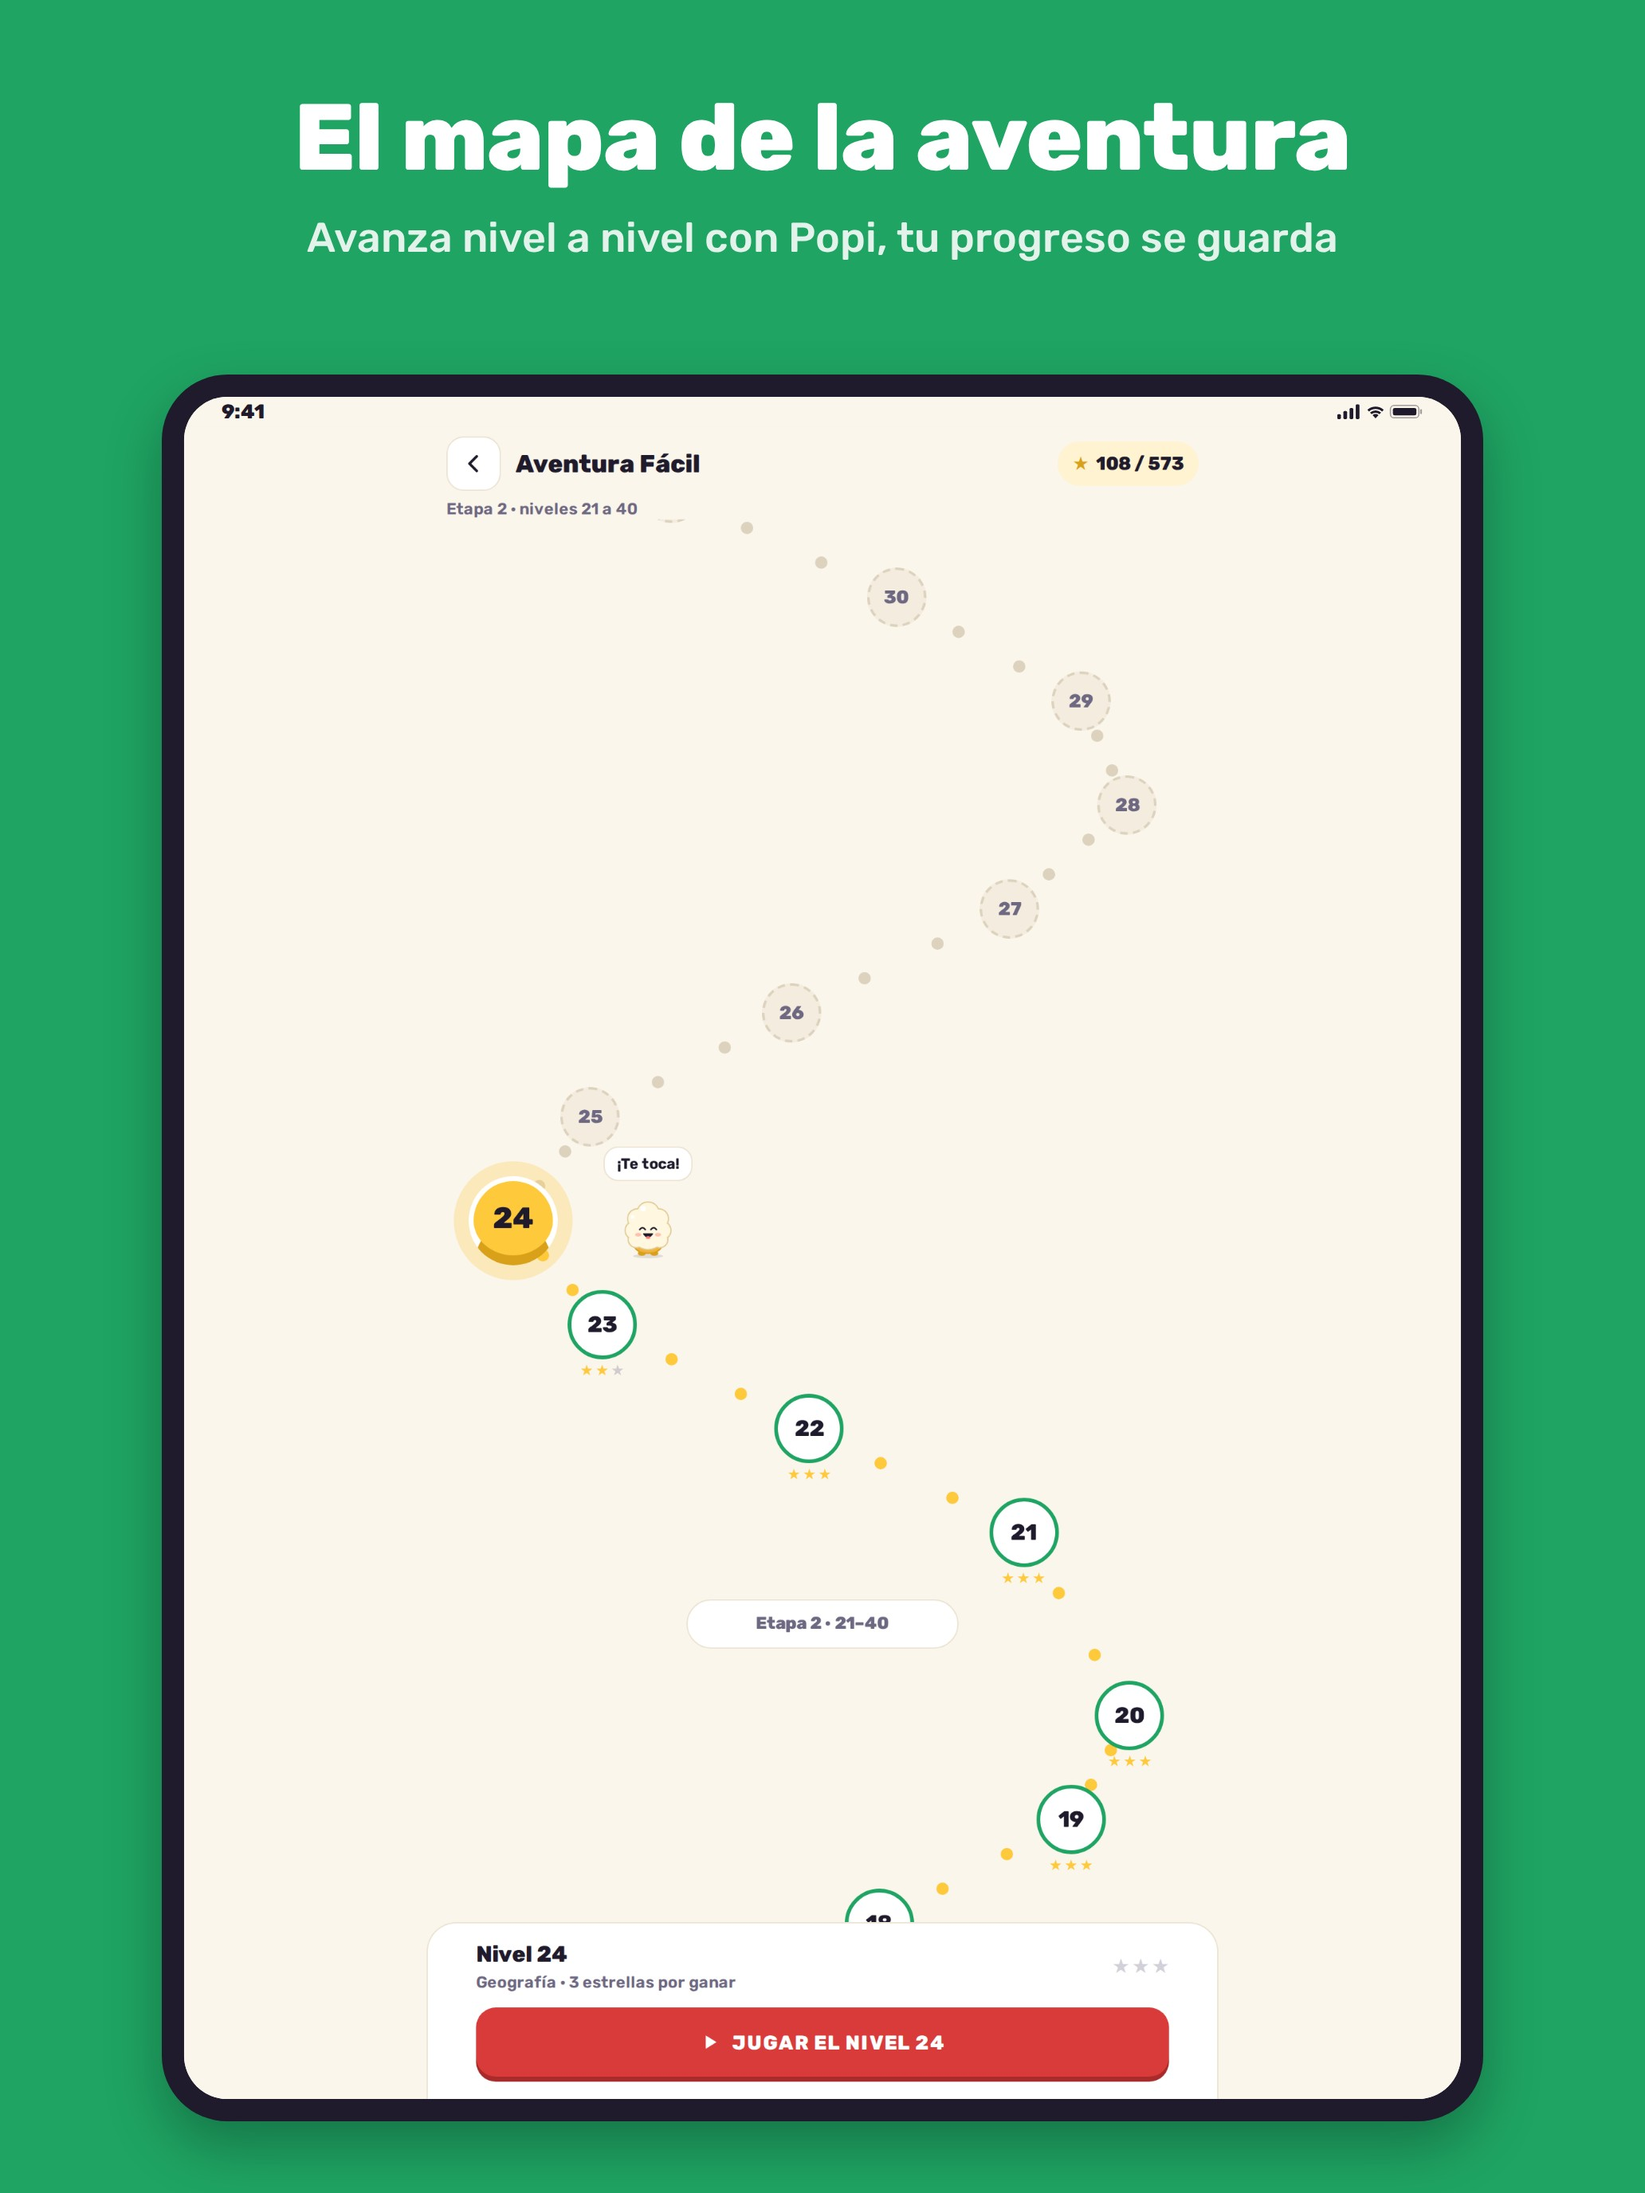
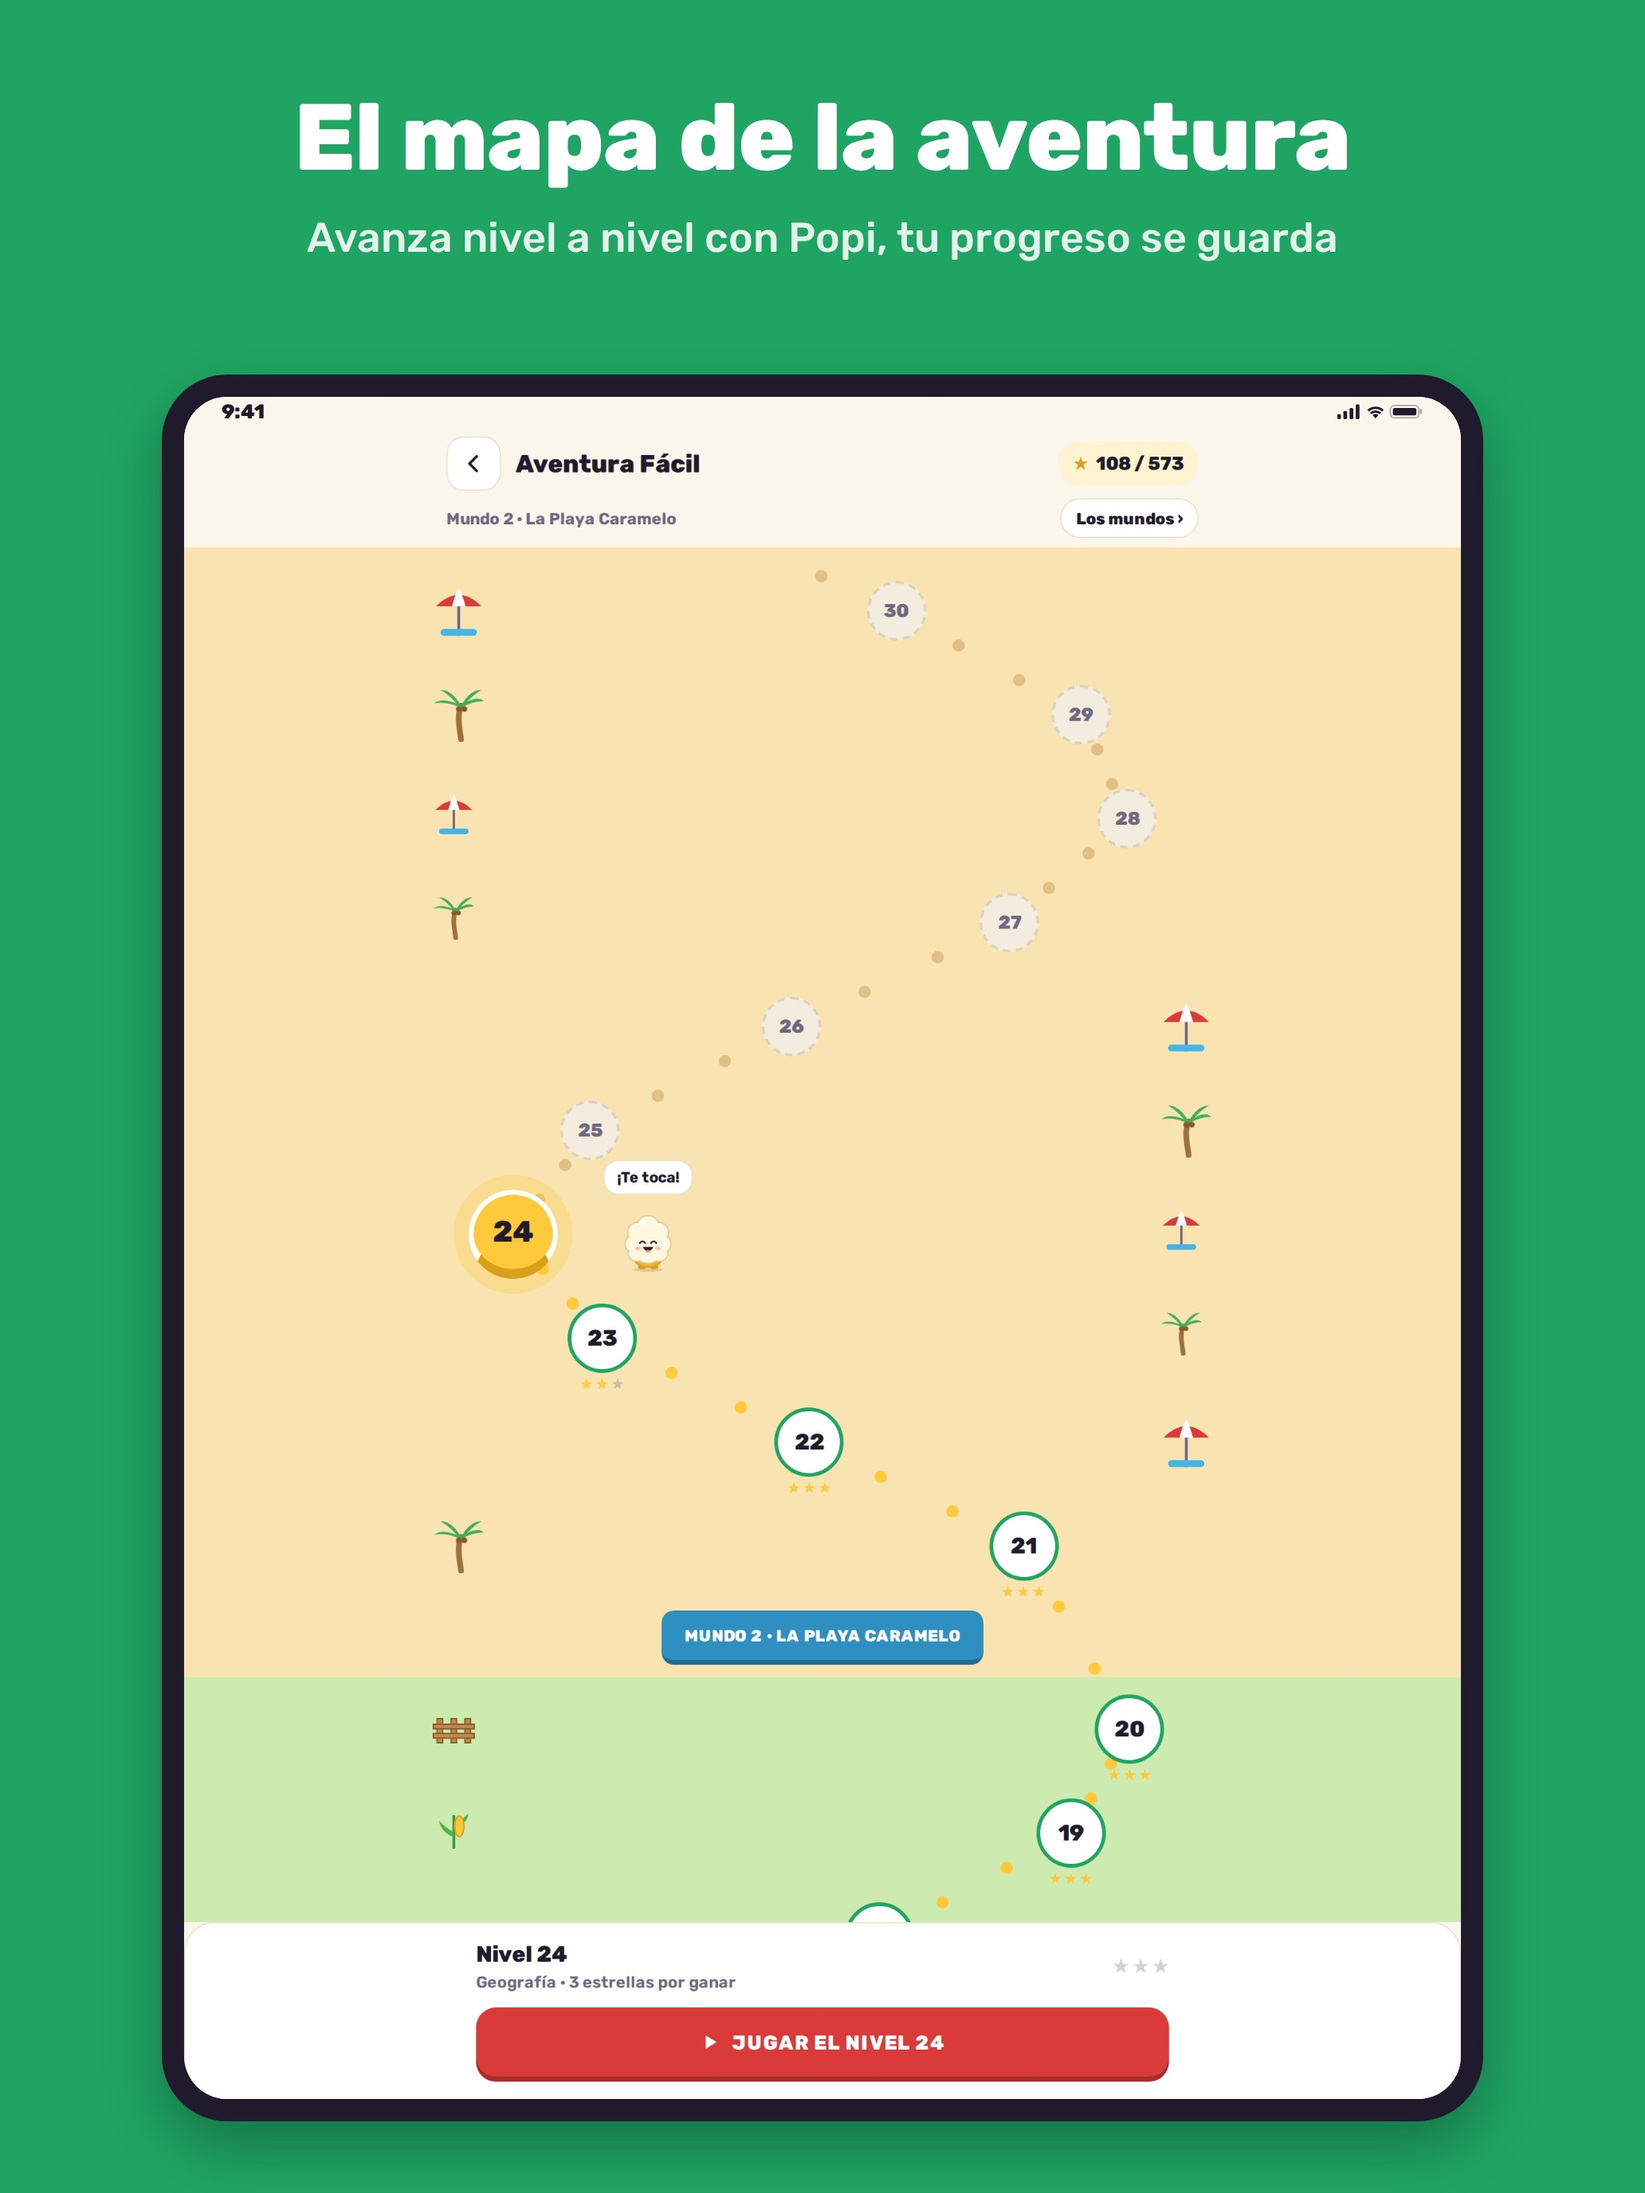
Adventure map fills the whole iPad screen; refresh App Store screenshots
Claude-Session: https://claude.ai/code/session_01BLg6ohMHupyk41E3TuaGCT

diff --git a/mobile/src/app/aventure.tsx b/mobile/src/app/aventure.tsx
@@ -116,32 +116,35 @@ export default function Aventure() {
   const openFound = openLevel ? found.includes(openLevel.id) : false;
 
   return (
-    <Screen>
-      <Header
-        title={`${t('adventure')} ${t(`diff_${d}` as StringKey)}`}
-        right={
-          <View style={{ height: 36, paddingHorizontal: 12, borderRadius: 18, backgroundColor: p.goldTint, flexDirection: 'row', alignItems: 'center', gap: 6 }}>
-            <Txt size={15} weight="heavy" color={p.goldDeep}>
-              ★
-            </Txt>
-            <Txt size={15} weight="heavy">
-              {`${got} / ${total * 3}`}
-            </Txt>
-          </View>
-        }
-      />
-      <View style={{ paddingHorizontal: 16, paddingTop: 6, paddingBottom: 8, flexDirection: 'row', alignItems: 'center', gap: 8 }}>
-        <Txt size={13} weight="bold" color={p.muted} lines={1} style={{ flex: 1 }}>
-          {t('map_world', { n: tierOfCurrent + 1, name: worldOf(d, tierOfCurrent).name[lang] })}
-        </Txt>
-        <Tap
-          onPress={() => router.push({ pathname: '/mondes', params: { diff: String(d) } })}
-          label={t('worlds_link')}
-          style={{ height: 32, paddingHorizontal: 12, borderRadius: 16, justifyContent: 'center' }}>
-          <Txt size={13} weight="heavy">
-            {`${t('worlds_link')} ›`}
+    <Screen style={{ maxWidth: '100%' }}>
+      {/* The map spans the whole screen on iPad; the header keeps the usual column. */}
+      <View style={{ width: '100%', maxWidth: tablet ? 640 : undefined, alignSelf: 'center' }}>
+        <Header
+          title={`${t('adventure')} ${t(`diff_${d}` as StringKey)}`}
+          right={
+            <View style={{ height: 36, paddingHorizontal: 12, borderRadius: 18, backgroundColor: p.goldTint, flexDirection: 'row', alignItems: 'center', gap: 6 }}>
+              <Txt size={15} weight="heavy" color={p.goldDeep}>
+                ★
+              </Txt>
+              <Txt size={15} weight="heavy">
+                {`${got} / ${total * 3}`}
+              </Txt>
+            </View>
+          }
+        />
+        <View style={{ paddingHorizontal: 16, paddingTop: 6, paddingBottom: 8, flexDirection: 'row', alignItems: 'center', gap: 8 }}>
+          <Txt size={13} weight="bold" color={p.muted} lines={1} style={{ flex: 1 }}>
+            {t('map_world', { n: tierOfCurrent + 1, name: worldOf(d, tierOfCurrent).name[lang] })}
           </Txt>
-        </Tap>
+          <Tap
+            onPress={() => router.push({ pathname: '/mondes', params: { diff: String(d) } })}
+            label={t('worlds_link')}
+            style={{ height: 32, paddingHorizontal: 12, borderRadius: 16, justifyContent: 'center' }}>
+            <Txt size={13} weight="heavy">
+              {`${t('worlds_link')} ›`}
+            </Txt>
+          </Tap>
+        </View>
       </View>
 
       <ScrollView ref={scroller} onLayout={onViewport} onContentSizeChange={onContent} style={{ flex: 1, backgroundColor: worldOf(d, 0).bg }} contentContainerStyle={{ alignItems: 'center' }}>
